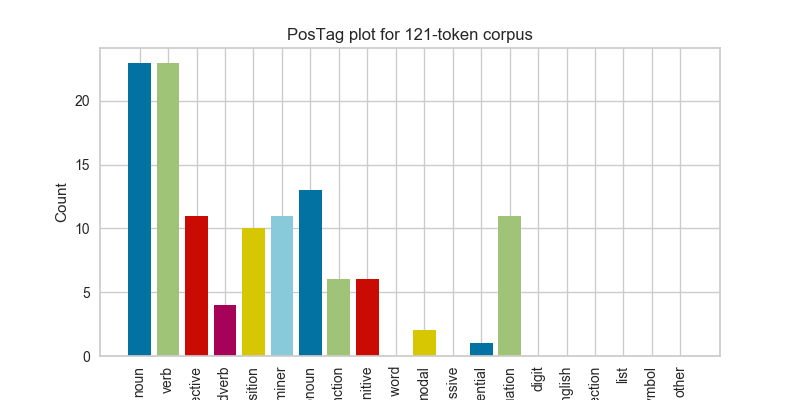
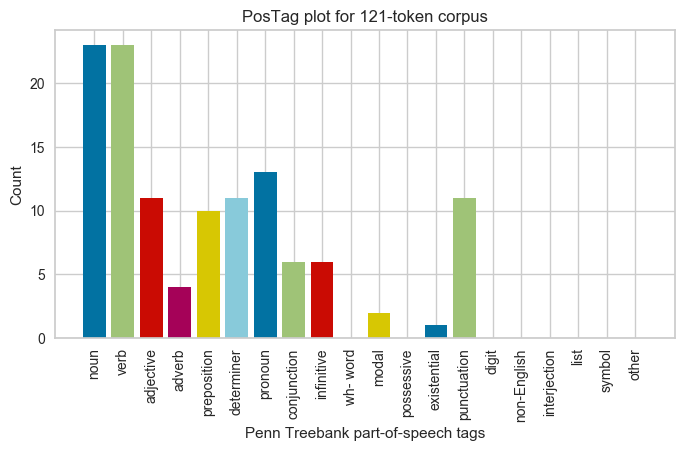
Fixes Label cutoff in saved images of PosTag and ConfusionMatrix Visualizer
In the gallery, Visualizer produced images are saved to disk.  We found
in particular that the saved imaged for PosTagVisualizer was being
produced with cutoff labels.  This PR remedies this with bbox_inches
being set to tight.

diff --git a/yellowbrick/text/postag.py b/yellowbrick/text/postag.py
@@ -310,7 +310,7 @@ class PosTagVisualizer(TextVisualizer):
             color=colors
         )
         return self.ax
-        
+
     def finalize(self, **kwargs):
         """
         Finalize the plot with ticks, labels, and title
@@ -326,10 +326,10 @@ class PosTagVisualizer(TextVisualizer):
                 (sum(self.pos_tag_counts_.values()))
             )
         )
-        
+
         self.ax.set_xticks(range(len(self.pos_tag_counts_)))
         self.ax.set_xticklabels(list(self.pos_tag_counts_.keys()), rotation=90)
-        
+
         # Set the axis labels
         self.ax.set_xlabel(
             '{} part-of-speech tags'.format(
@@ -338,23 +338,29 @@ class PosTagVisualizer(TextVisualizer):
         )
         self.ax.set_ylabel('Count')
 
+    def poof(self, outpath=None, **kwargs):
+        if outpath is not None:
+            kwargs["bbox_inches"] = kwargs.get("bbox_inches", "tight")
+        return super(PosTagVisualizer, self).poof(outpath, **kwargs)
+
+
 ##########################################################################
 ## Quick Method
 ##########################################################################
 
-def postag(X, ax=None, tagset="penn_treebank", colormap=None, 
-            colors=None, **kwargs):
+def postag(X, ax=None, tagset="penn_treebank", colormap=None,
+           colors=None, **kwargs):
     """
     Display a barchart with the counts of different parts of speech
     in X, which consists of a part-of-speech-tagged corpus, which the
-    visualizer expects to be a list of lists of lists of (token, tag) 
+    visualizer expects to be a list of lists of lists of (token, tag)
     tuples.
 
     Parameters
     ----------
     X : list or generator
         Should be provided as a list of documents or a generator
-        that yields a list of documents that contain a list of 
+        that yields a list of documents that contain a list of
         sentences that contain (token, tag) tuples.
     ax : matplotlib axes
         The axes to plot the figure on.
@@ -367,7 +373,7 @@ def postag(X, ax=None, tagset="penn_treebank", colormap=None,
     colormap : string or matplotlib cmap
         Specify a colormap to color the parts-of-speech.
     kwargs : dict
-        Pass any additional keyword arguments to the PosTagVisualizer. 
+        Pass any additional keyword arguments to the PosTagVisualizer.
 
     Returns
     -------
@@ -384,6 +390,6 @@ def postag(X, ax=None, tagset="penn_treebank", colormap=None,
 
     # Return the axes object on the visualizer
     return visualizer
-        
-        
-        
+
+
+

diff --git a/yellowbrick/classifier/confusion_matrix.py b/yellowbrick/classifier/confusion_matrix.py
@@ -270,6 +270,11 @@ class ConfusionMatrix(ClassificationScoreVisualizer):
         # Return the axes being drawn on
         return self.ax
 
+    def poof(self, outpath=None, **kwargs):
+        if outpath is not None:
+            kwargs["bbox_inches"] = kwargs.get("bbox_inches", "tight")
+        return super(ConfusionMatrix, self).poof(outpath, **kwargs)
+
     def finalize(self, **kwargs):
         self.set_title('{} Confusion Matrix'.format(self.name))
         self.ax.set_ylabel('True Class')
